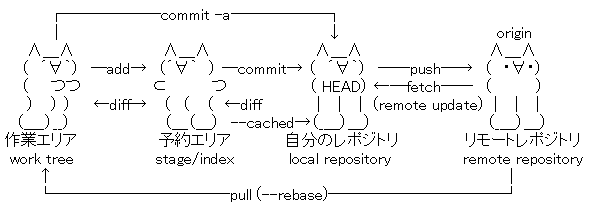
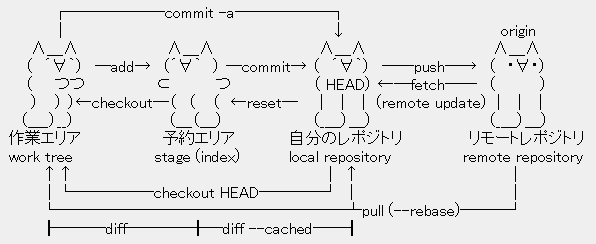
Update the figure.

diff --git a/README.md b/README.md
@@ -15,12 +15,14 @@ Git とは
 　　∧＿∧　　　　　　　　∧＿∧　　　　　　　　　 ∧＿∧　　　　　　　　　　　 ∧＿∧
 　 （　´∀｀）　─add→　（´∀｀　） ─commit→ （　´∀｀）　──push─→　（　・∀・）
 　 （　　つつ　　　　　　 ⊂　　　　つ　　　　　　　 （ HEAD） ←─fetch──　（　　　　）
-　　） 　） ）　　←diff→　 （　（　 （　←diff　　　　 ｜ ｜　|　(remote update) ｜ ｜　|
-　（＿_）__）　　　　　　　 　（＿（＿）　--cached→（_＿）＿）　　　　　　　　　　 （_＿）＿）
+　　） 　） ）←checkout─（　（　 （　←reset─　 ｜ ｜　|　(remote update) ｜ ｜　|
+　（＿_）__）　　　　　　　 　（＿（＿）　　　　　　　　（_＿）＿）　　　　　　　　　　 （_＿）＿）
 作業エリア　　　　　　　 予約エリア　　　　　自分のレポジトリ　　　　　　リモートレポジトリ
- work tree　　　　　　　 stage/index　　　　　local repository　　　　　 　remote repository
-　　　↑ 　 　　　　　　　　　　　　　　　　　　　　　　　　　　　　　　　　　　　　　　　│
-　　　└───────────pull (--rebase)───────────┘
+ work tree　　　　　　　 stage (index)　　　　 local repository　　　　　 　remote repository
+　　　↑↑ 　 　 　 　 　 　 　　　　　　　　　　　　　 │ ↑ 　　　　　　　　　　　　　│
+　　　│└─────checkout HEAD────┘ │ 　　　　　　　　　　　　　│
+　　　└──────────────────┴pull (--rebase)───┘
+　　　┠───diff────╂─diff --cached──┨
 ](https://github.com/seesaa/Git-for-Designers/raw/master/images/figure1.png)
 
 最初に！
